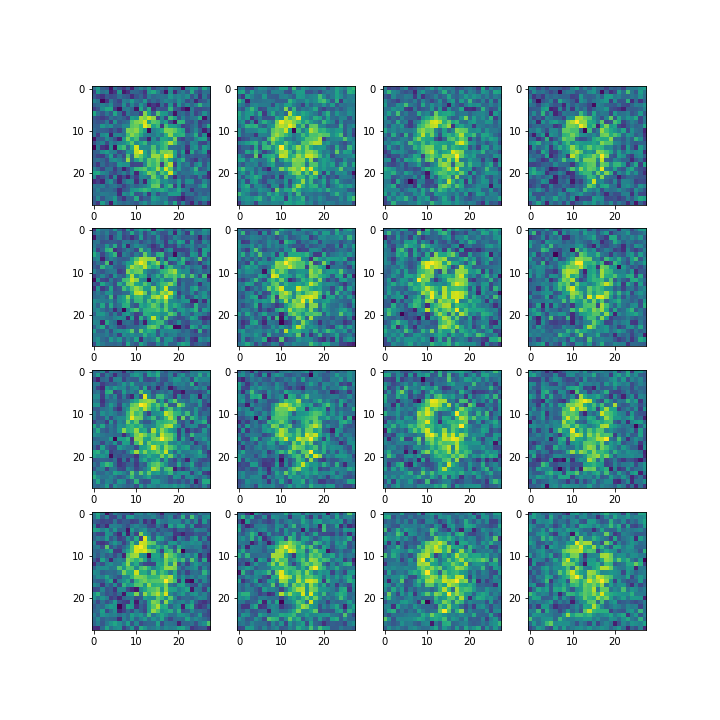
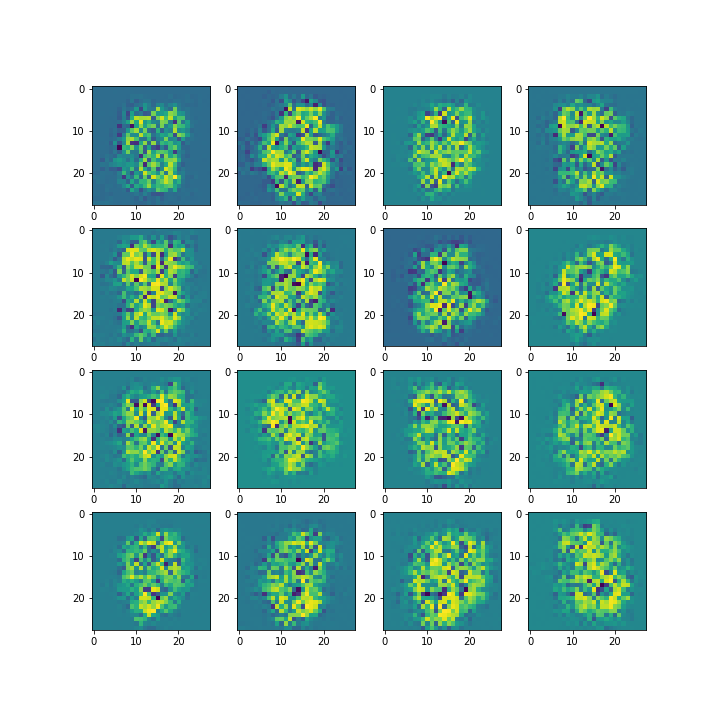
NA

diff --git a/gan/gan_conv_mnist.py b/gan/gan_conv_mnist.py
@@ -4,7 +4,7 @@ import matplotlib.pyplot as plt
 from tqdm import tqdm
 
 # Fitting parameters
-num_epochs = 10
+num_epochs = 5
 noise_dim = 100
 
 lr_discriminator = 0.0001
@@ -19,7 +19,7 @@ beta1_generator = 0.5
 train_data = train_data / 255
 
 # Reshape train data for batches
-batch_size = 64
+batch_size = 32
 num_batches = int(train_data.shape[0] / batch_size)
 train_data = train_data[:(batch_size * num_batches),:,:]
 
@@ -31,24 +31,20 @@ image_shape = train_data.shape[2:]
 
 # Generator model
 model_generator = keras.Sequential([
-	keras.layers.Dense(256, input_shape = (noise_dim,)),
-	keras.layers.ReLU(),
-	keras.layers.Dropout(0.5),
-#	keras.layers.BatchNormalization(),
+	keras.layers.Dense(64 * 7 * 7, input_shape = (noise_dim,)),
+	keras.layers.Reshape((7, 7, 64)),
 	
-	keras.layers.Dense(512),
-	keras.layers.ReLU(),
-	keras.layers.Dropout(0.5),
-#	keras.layers.BatchNormalization(),
+	keras.layers.Conv2DTranspose(32, kernel_size = 3, strides = 2, padding = 'same'),
+	keras.layers.BatchNormalization(),
+	keras.layers.LeakyReLU(0.01),
 	
-	keras.layers.Dense(1024),
-	keras.layers.ReLU(),
-	keras.layers.Dropout(0.5),
-#	keras.layers.BatchNormalization(),
+	keras.layers.Conv2DTranspose(16, kernel_size = 3, strides = 1, padding = 'same'),
+	keras.layers.BatchNormalization(),
+	keras.layers.LeakyReLU(0.01),
 	
-	keras.layers.Dense(np.prod(image_shape), activation = 'tanh'),
+	keras.layers.Conv2DTranspose(1, kernel_size = 3, strides = 2, padding = 'same'),
 	
-	keras.layers.Reshape(image_shape)
+	keras.layers.Activation('tanh')
 ])
 model_generator.compile(keras.optimizers.Adam(lr = lr_generator, beta_1 = beta1_generator), keras.losses.binary_crossentropy)
 
@@ -57,17 +53,19 @@ n_gen_trainable = len(model_generator.trainable_weights)
 
 # Discriminator model
 model_discriminator = keras.Sequential([
-	keras.layers.Flatten(input_shape = image_shape),
+	keras.layers.Conv2D(32, kernel_size = 3, strides = 2, padding = 'same', input_shape = image_shape),
+	keras.layers.BatchNormalization(),
+	keras.layers.LeakyReLU(0.01),
 	
-	keras.layers.Dense(1024),
+	keras.layers.Conv2D(64, kernel_size = 3, strides = 1, padding = 'same'),
+	keras.layers.BatchNormalization(),
+	keras.layers.LeakyReLU(0.01),
+	
+	keras.layers.Flatten(),
+	keras.layers.Dense(32),
 	keras.layers.ReLU(),
-	keras.layers.Dropout(0.5),
 	
-	keras.layers.Dense(512),
-	keras.layers.ReLU(),
-	keras.layers.Dropout(0.5),
-	
-	keras.layers.Dense(256),
+	keras.layers.Dense(16),
 	keras.layers.ReLU(),
 	
 	keras.layers.Dense(1, activation = 'sigmoid')
